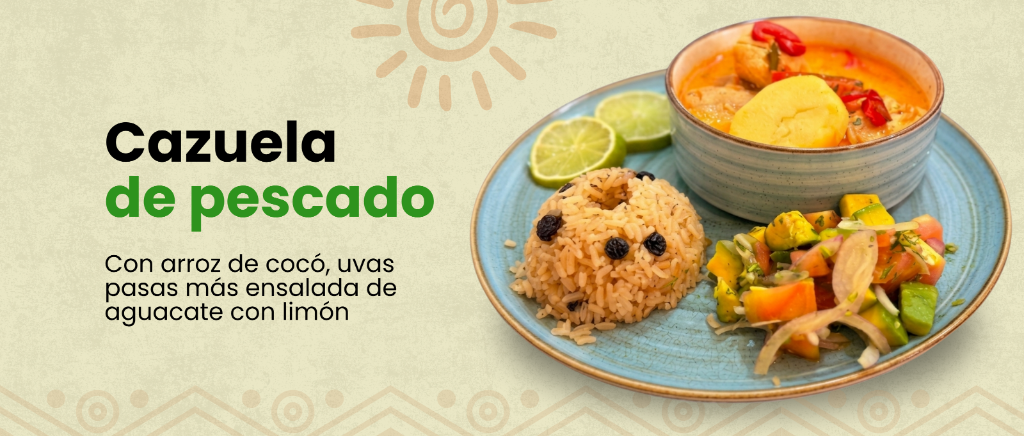
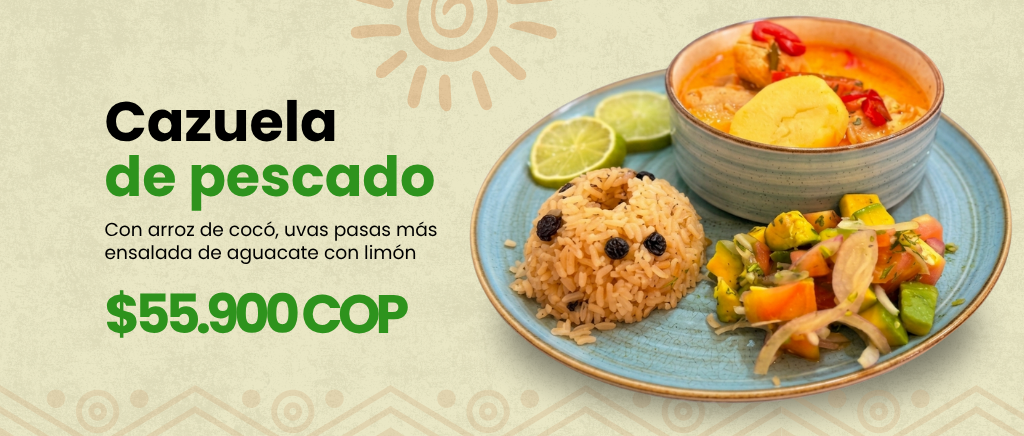
fix: restore slider autoplay/controls in script.js and update 3 promo slider images

Changed region(s): [[0.0938, 0.2385, 0.4375, 0.7752]]

diff --git a/index.html b/index.html
@@ -201,13 +201,13 @@
       <div class="banner-slider animate-on-scroll">
         <div class="banner-slider__wrapper" id="promo-slider-wrapper">
           <div class="banner-slide">
-            <img src="assets/promo-encocado.png?v=20260803" alt="Encocado Petronio" class="banner-slide__img">
+            <img src="assets/promo-cazuela.png?v=20260805" alt="Cazuela de Pescado" class="banner-slide__img">
           </div>
           <div class="banner-slide">
-            <img src="assets/promo-cazuela.png?v=20260803" alt="Cazuela de Pescado" class="banner-slide__img">
+            <img src="assets/promo-pasta.png?v=20260805" alt="Pasta Son del Pacífico" class="banner-slide__img">
           </div>
           <div class="banner-slide">
-            <img src="assets/promo-pasta.png?v=20260803" alt="Pasta Son del Pacífico" class="banner-slide__img">
+            <img src="assets/promo-encocado.png?v=20260805" alt="Encocado Petronio" class="banner-slide__img">
           </div>
         </div>
         

diff --git a/script.js b/script.js
@@ -261,10 +261,9 @@ document.addEventListener('DOMContentLoaded', () => {
       
       container.addEventListener('mouseenter', stopAutoplay);
       container.addEventListener('mouseleave', startAutoplay);
-      startAutoplay();
     });
   }
-  
 
+  initSliders();
 });
 
